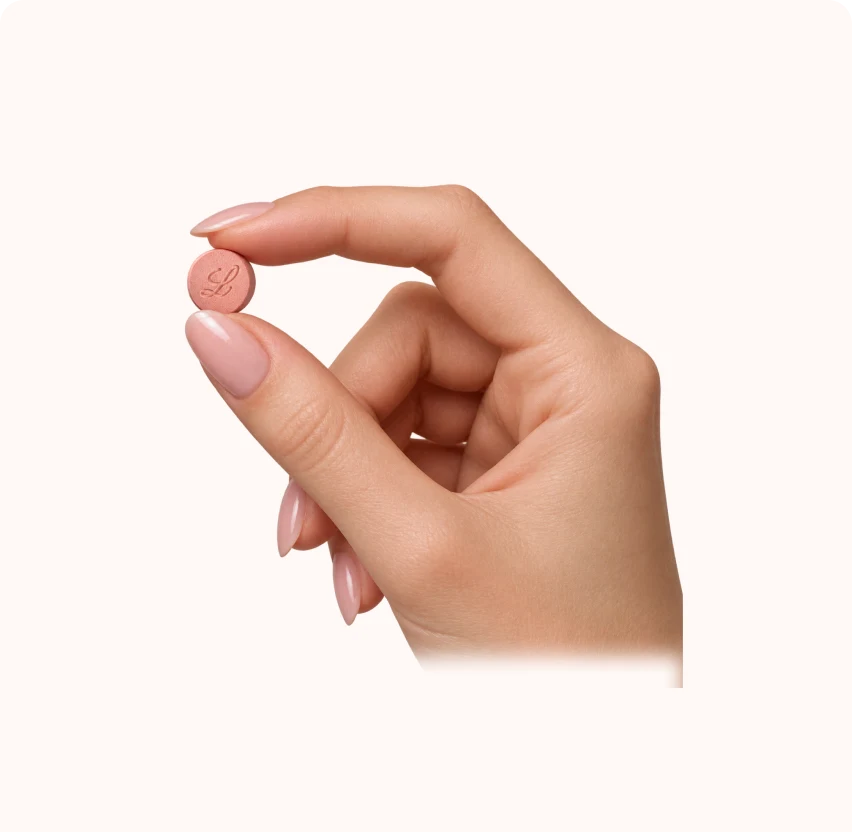
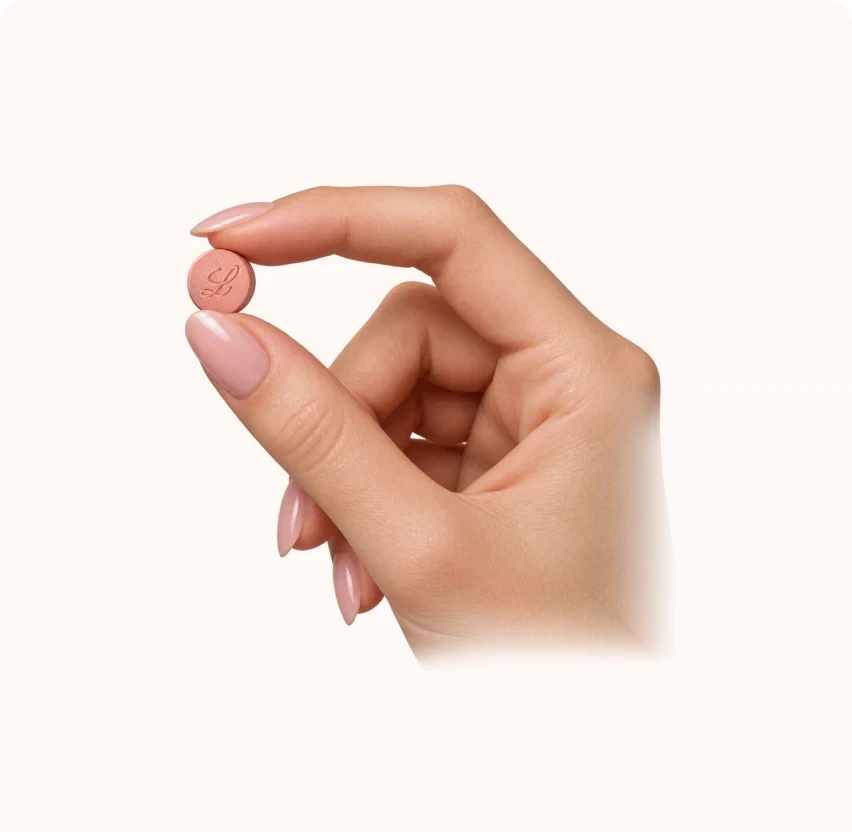
Foundayo: the ten QA points from the "Joodlife Foundyo Pill" review
1. Hero copy reads over the photo: text shadow (0 2px 8px rgba(0,0,0,.4))
   and a stronger left-to-right wash; the small reassurance line is brighter.
2. Hero is shorter on desktop: about 72% of the screen (capped at 600px)
   with tighter spacing, so the next section peeks above the fold
   (1366x768: hero 553px, 106px of the next section visible).
3. "How does GLP-1 work?" tablet served at 2x (1032px, how-pill@2x.webp)
   instead of stretching a 474px file. A true original export would be
   sharper still.
4. "More flexibility" card: the cut wrist now fades into the card colour.
5. Comparison table: the real Foundayo tablet and Jood pen at 60px
   (44px mobile) with alt text, instead of 26px slivers.
6. Callouts pulled 70px closer to the tablet; the dots still land on it.
7. Step 1: one "Start here" tag on the card's top edge instead of a badge
   repeating "Starting Dose"; all four cards line up.
8. Closing card: 60px white gap above the footer, so its rounded corners show.
9. Dosing hand image: the flat wrist edge fades out.
10. "More Flexibility" -> "More flexibility".

Changed region(s): [[0.4883, 0.4688, 0.8239, 0.8438]]

diff --git a/components/foundayo/Hero.tsx b/components/foundayo/Hero.tsx
@@ -6,7 +6,8 @@ import { BODY, BTN_WHITE } from "./type";
 
 /**
  * Hero — from Figma 2003:1228 / 2003:564, but shorter than the frames
- * (749 / 607px) at the client's request: 640px desktop, 520px mobile.
+ * (749 / 607px): about 72% of the screen on desktop (capped at 600px) so
+ * the next section peeks above the fold, 520px mobile.
  * Full-bleed photo, copy in white on the left over a dark wash that is
  * heaviest on the left and along the bottom so the text always reads:
  * 50/55 headline (32/35.2 mobile), 18.3/23.8 intro (16/20.8 mobile),
@@ -26,7 +27,7 @@ export default function Hero() {
   return (
     <section
       aria-label="Weight loss tablet — tried every diet?"
-      className="relative flex min-h-[520px] w-full items-end overflow-hidden bg-[#3b2a24] md:min-h-[600px] md:items-center lg:min-h-[640px]"
+      className="relative flex min-h-[520px] w-full items-end overflow-hidden bg-[#3b2a24] md:min-h-[min(560px,72vh)] md:items-center lg:min-h-[min(600px,72vh)]"
     >
       {/* Static photo: the old slow zoom (transform: scale) made the browser
           rasterise the image once and stretch it, which read as blur. */}
@@ -54,13 +55,14 @@ export default function Hero() {
         className="absolute inset-0 hidden md:block"
         style={{
           background:
-            "linear-gradient(90deg, rgba(30,18,14,0.78) 0%, rgba(30,18,14,0.64) 26%, rgba(30,18,14,0.32) 50%, rgba(30,18,14,0) 70%), " +
+            "linear-gradient(90deg, rgba(30,18,14,0.84) 0%, rgba(30,18,14,0.72) 28%, rgba(30,18,14,0.4) 52%, rgba(30,18,14,0) 72%), " +
             "linear-gradient(180deg, rgba(30,18,14,0) 60%, rgba(30,18,14,0.45) 100%)",
         }}
       />
 
-      <div className="relative z-10 mx-auto w-full max-w-[1440px] px-4 pb-[22px] pt-10 md:px-10 md:py-[60px] lg:px-[60px]">
-        <div className="max-w-[372px] md:max-w-[540px]">
+      <div className="relative z-10 mx-auto w-full max-w-[1440px] px-4 pb-[22px] pt-10 md:px-10 md:py-[40px] lg:px-[60px]">
+        {/* Text shadow so the white copy holds up over the busy photo (QA: WCAG contrast). */}
+        <div className="max-w-[372px] [text-shadow:0_2px_8px_rgba(0,0,0,0.4)] md:max-w-[540px]">
           <Reveal delay={60}>
             <h1 className="text-white">
               <span className="block font-display text-[32px] font-semibold leading-[35.2px] tracking-[-1.6px] md:text-[50px] md:leading-[55px]">
@@ -78,7 +80,7 @@ export default function Hero() {
           </Reveal>
 
           <Reveal delay={300}>
-            <div className="mt-[10px] flex flex-wrap items-center gap-2 md:mt-8">
+            <div className="mt-[10px] flex flex-wrap items-center gap-2 md:mt-5">
               <Image src="/assets/icons/trustpilot-logo-dark.svg" alt="Trustpilot" width={74} height={18} className="h-[18px] w-auto brightness-0 invert" />
               <Image src="/assets/icons/trustpilot-stars.svg" alt="4.4 stars" width={86} height={16} className="h-4 w-auto" />
               <span className="font-ui text-[14.2px] leading-[17px] tracking-[-0.4px] text-white">
@@ -92,15 +94,15 @@ export default function Hero() {
               product="weight-loss"
               href={c.ctaHref}
               label={c.ctaLabel}
-              className={`fnd-lift mt-[14px] w-full md:mt-[30px] md:w-[372px] ${BTN_WHITE}`}
+              className={`fnd-lift mt-[14px] w-full [text-shadow:none] md:mt-5 md:w-[372px] ${BTN_WHITE}`}
             />
           </Reveal>
 
           <Reveal delay={480}>
-            <p className="mt-3 font-ui text-[15.3px] leading-[19.5px] tracking-[-0.3px] text-white/80 md:mt-[22px]">{c.reassurance}</p>
+            <p className="mt-3 font-ui text-[15.3px] leading-[19.5px] tracking-[-0.3px] text-white/95 md:mt-3">{c.reassurance}</p>
           </Reveal>
 
-          <ul className="mt-[13px] flex flex-col gap-[13px] md:mt-[18px] md:gap-5">
+          <ul className="mt-[13px] flex flex-col gap-[13px] md:mt-4 md:gap-3">
             {c.bullets.map((b, i) => (
               <Reveal as="li" key={b} delay={560 + i * 110} className="flex items-center gap-[10px]">
                 <Tick />

diff --git a/components/foundayo/HowItWorks.tsx b/components/foundayo/HowItWorks.tsx
@@ -24,11 +24,13 @@ type Callout = { x: number; y: number; w: number; conn: Conn };
 // so the two left connectors run to where the circle's edge actually is at
 // their height rather than Figma's shorter ones (measured in the browser).
 const DESKTOP = { W: 1048, H: 516, tablet: { x: 264, y: 0, w: 546, h: 516 } };
+// QA: the labels sat too far from the tablet, so each side is pulled 70px
+// in and its connector shortened to match — the dots stay on the pill.
 const D: Callout[] = [
-  { x: 0, y: 67, w: 156, conn: { x: 0, y: 127, w: 306, h: 30, borders: "border-l border-b", dot: "br" } },
-  { x: 891, y: 74, w: 157, conn: { x: 752, y: 97, w: 131, h: 30, borders: "border-t border-l", dot: "bl" } },
-  { x: 0, y: 417, w: 248, conn: { x: 0, y: 379, w: 316, h: 30, borders: "border-l border-t", dot: "tr" } },
-  { x: 891, y: 417, w: 157, conn: { x: 758, y: 379, w: 143, h: 30, borders: "border-t border-r", dot: "tl" } },
+  { x: 70, y: 67, w: 156, conn: { x: 70, y: 127, w: 236, h: 30, borders: "border-l border-b", dot: "br" } },
+  { x: 821, y: 74, w: 157, conn: { x: 752, y: 97, w: 61, h: 30, borders: "border-t border-l", dot: "bl" } },
+  { x: 70, y: 417, w: 248, conn: { x: 70, y: 379, w: 246, h: 30, borders: "border-l border-t", dot: "tr" } },
+  { x: 821, y: 417, w: 157, conn: { x: 758, y: 379, w: 73, h: 30, borders: "border-t border-r", dot: "tl" } },
 ];
 // Mobile box 390×345 (full frame width); the tablet box is Figma's own
 // 256×242 image frame, so the connectors land on it exactly as designed.
@@ -104,7 +106,7 @@ export default function HowItWorks() {
               style={{ left: pct(DESKTOP.tablet.x, DESKTOP.W), top: 0, width: pct(DESKTOP.tablet.w, DESKTOP.W), height: "100%" }}
             >
               <div className="fnd-float relative h-full w-full">
-                <Image src={c.image} alt="Daily weight loss tablet" fill sizes="546px" className="object-contain drop-shadow-[0_30px_50px_rgba(90,30,20,0.35)]" quality={90} />
+                <Image src={c.image} alt="Daily weight loss tablet" fill sizes="(min-width:1024px) 546px, 70vw" className="object-contain drop-shadow-[0_30px_50px_rgba(90,30,20,0.35)]" quality={95} />
               </div>
             </Reveal>
             <Layer box={DESKTOP} items={D} labels={c.callouts} prefix="d" textClass="font-ui text-[25px] font-medium leading-[25.6px] tracking-[-0.5px]" />

diff --git a/components/foundayo/Dosing.tsx b/components/foundayo/Dosing.tsx
@@ -32,16 +32,16 @@ export default function Dosing() {
                   as="div"
                   key={d.step}
                   delay={i * 110}
-                  className="fnd-lift flex min-h-[115px] flex-col items-center rounded-xl bg-[#fff8f6] px-1 pb-[10px] pt-[10px] text-center text-black md:min-h-[157px] md:px-3 md:pb-[17px] md:pt-[17px]"
+                  className="fnd-lift relative flex min-h-[115px] flex-col items-center rounded-xl bg-[#fff8f6] px-1 pb-[10px] pt-[10px] text-center text-black md:min-h-[157px] md:px-3 md:pb-[17px] md:pt-[17px]"
                 >
+                  {/* QA: the old "Starting Dose" pill repeated the label below it and
+                      pushed this card's text down. One "Start here" tag now sits on
+                      the top edge, so all four cards line up. */}
                   {d.start ? (
-                    <>
-                      <span className="mb-1 rounded-full bg-[#142e2a] px-3 py-[3px] font-ui text-[8px] leading-[9.6px] text-white md:hidden">{c.startBadgeMobile}</span>
-                      <span className="mb-2 hidden rounded-full bg-[#142e2a] px-[10px] py-[3px] font-ui text-[12px] leading-[14.4px] text-white md:inline-block">{c.startBadge}</span>
-                    </>
-                  ) : (
-                    <span aria-hidden className="block h-[3px] md:h-0" />
-                  )}
+                    <span className="absolute left-1/2 top-0 -translate-x-1/2 -translate-y-1/2 whitespace-nowrap rounded-full bg-[#142e2a] px-[10px] py-[3px] font-ui text-[9px] leading-[11px] text-white md:px-3 md:text-[12px] md:leading-[14.4px]">
+                      {c.startBadgeMobile}
+                    </span>
+                  ) : null}
                   <span className="font-ui text-[14px] font-bold leading-[16.8px] tracking-[-0.3px] md:text-[24px] md:font-medium md:leading-[19.5px]">{d.step}</span>
                   <span className="mt-1 font-ui text-[10px] leading-[12px] tracking-[-0.3px] md:mt-[10px] md:text-[12px] md:leading-[14.4px]">{d.label}</span>
                   <span className="mt-[6px] font-display text-[10px] font-medium leading-[12px] tracking-[-0.3px] md:mt-[10px]">{d.days}</span>

diff --git a/lib/foundayoContent.ts b/lib/foundayoContent.ts
@@ -86,7 +86,7 @@ export const FOUNDAYO = {
         alt: "Daily weight loss tablets",
       },
       {
-        title: "More Flexibility",
+        title: "More flexibility",
         body: "One tablet a day. No injections, no pens and nothing to keep in the fridge.",
         image: `${CARD}/card-2.webp`,
         alt: "Hand holding a daily weight loss tablet",
@@ -148,7 +148,7 @@ export const FOUNDAYO = {
     ctaHref: FOUNDAYO_ASSESS,
     secondaryLabel: "Learn More",
     secondaryHref: "#faq",
-    image: `${IMG}/how-pill.webp`,
+    image: `${IMG}/how-pill@2x.webp`, // 2x for sharp desktop/retina
     background: `${IMG}/how-bg.jpg`,
   },
 
@@ -183,7 +183,7 @@ export const FOUNDAYO = {
     image: `${IMG}/hand-pill.webp`,
     imageAlt: "Hand holding a daily weight loss tablet",
     startBadge: "Starting Dose",
-    startBadgeMobile: "Start Here",
+    startBadgeMobile: "Start here",
     steps: [
       { step: "Step 1", label: "Starting Dose", days: "Days 1–30", price: "£99", start: true },
       { step: "Step 2", label: "Step-Up Dosing", days: "Days 31–60", price: "£109", start: false },

diff --git a/components/foundayo/Comparison.tsx b/components/foundayo/Comparison.tsx
@@ -99,7 +99,7 @@ export default function Comparison() {
                 takenLabel={c.takenLabel}
                 rows={c.pillRows}
                 dark
-                icon={<Image src="/assets/foundayo/cmp-pill.webp" alt="" width={104} height={104} className="h-[26px] w-auto" />}
+                icon={<Image src="/assets/foundayo/cmp-tablet.webp" alt="Daily weight loss tablet" width={238} height={256} className="h-[44px] w-auto md:h-[60px]" />}
               />
             </Reveal>
             <Reveal direction="left" delay={140}>
@@ -110,7 +110,7 @@ export default function Comparison() {
                 takenLabel={c.takenLabel}
                 rows={c.penRows}
                 dark={false}
-                icon={<Image src="/assets/foundayo/cmp-pen.webp" alt="" width={104} height={104} className="h-[26px] w-auto" />}
+                icon={<Image src="/assets/foundayo/cmp-jood-pen.webp" alt="Weekly injection pen" width={212} height={256} className="h-[44px] w-auto md:h-[60px]" />}
               />
             </Reveal>
           </div>

diff --git a/components/foundayo/FinalCta.tsx b/components/foundayo/FinalCta.tsx
@@ -28,7 +28,7 @@ export default function FinalCta() {
     </h2>
   );
   return (
-    <section aria-label="Ready to stop starting over" className="w-full bg-white pb-[30px] md:pb-0">
+    <section aria-label="Ready to stop starting over" className="w-full bg-white pb-[30px] md:pb-[60px]">
       <div className={WRAP}>
         <Reveal as="div">
           {/* Desktop */}
